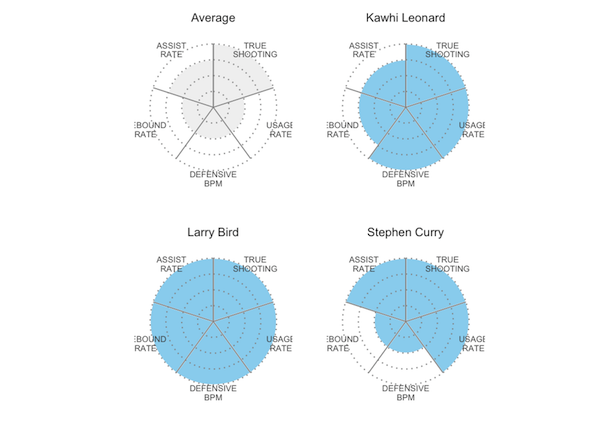
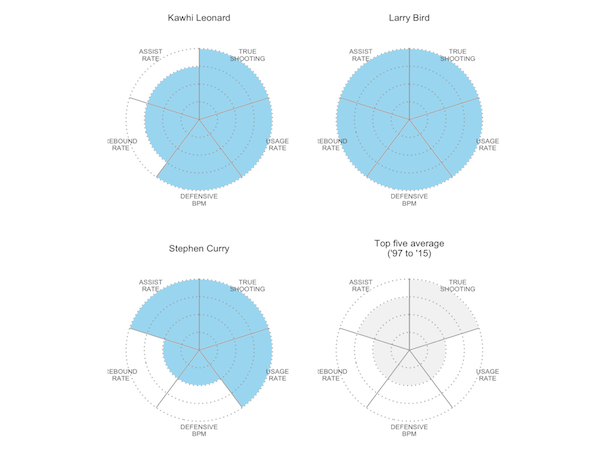
Fix "Average" Label

diff --git a/_posts/2017-01-21-THE-BEST.md b/_posts/2017-01-21-THE-BEST.md
@@ -37,10 +37,11 @@ df <- tribble(
     "Larry Bird", 88, 89, 93, 92, 87,
     "Kawhi Leonard", 71, 94, 92, 93, 62,
     "Stephen Curry", 95, 92, 87, 43, 32,
-    "Average", 72, 85, 32, 34, 30) %>% 
+    "Top five average\n('97 to '15)", 72, 85, 32, 34, 30) %>% 
     gather(stat, percentile, -player) %>% 
     mutate(outof4 = percentile %/% 25 + 1) %>% 
-    mutate(col = ifelse(player == "Average", "A", "B")) %>% 
+    mutate(col = ifelse(
+        player == "Top five average\n('97 to '15)", "A", "B")) %>% 
     mutate(order = recode(stat, 
         assists = 5, shooting = 1, usage = 2, 
         defense = 3, rebounds = 4)) %>% 
